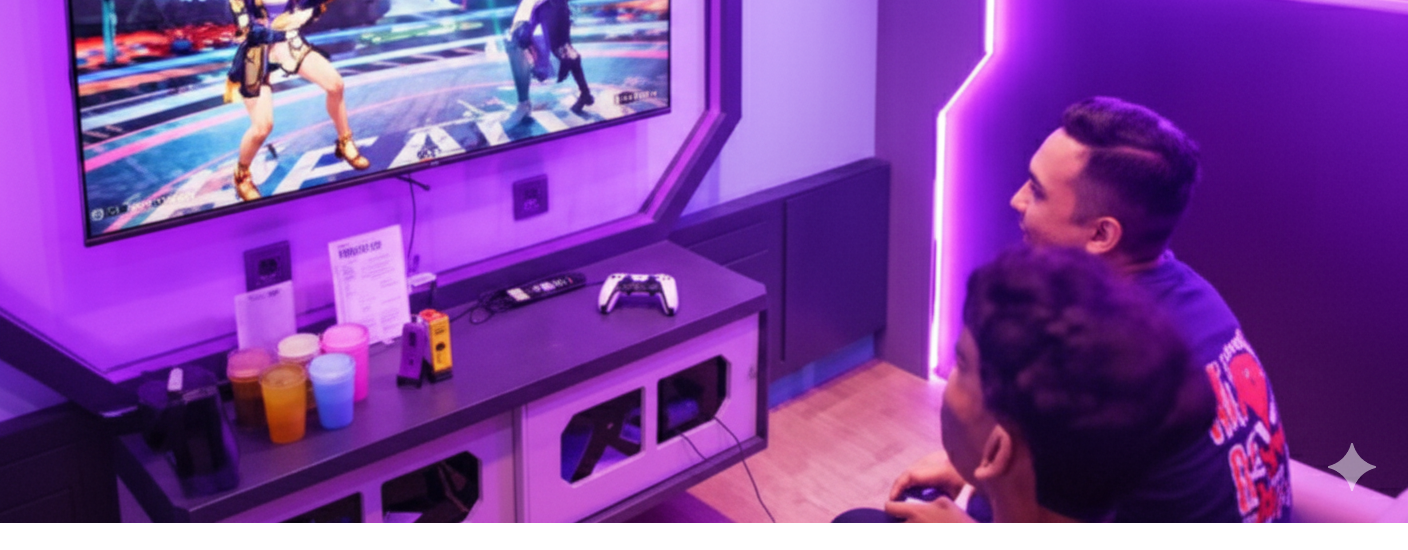
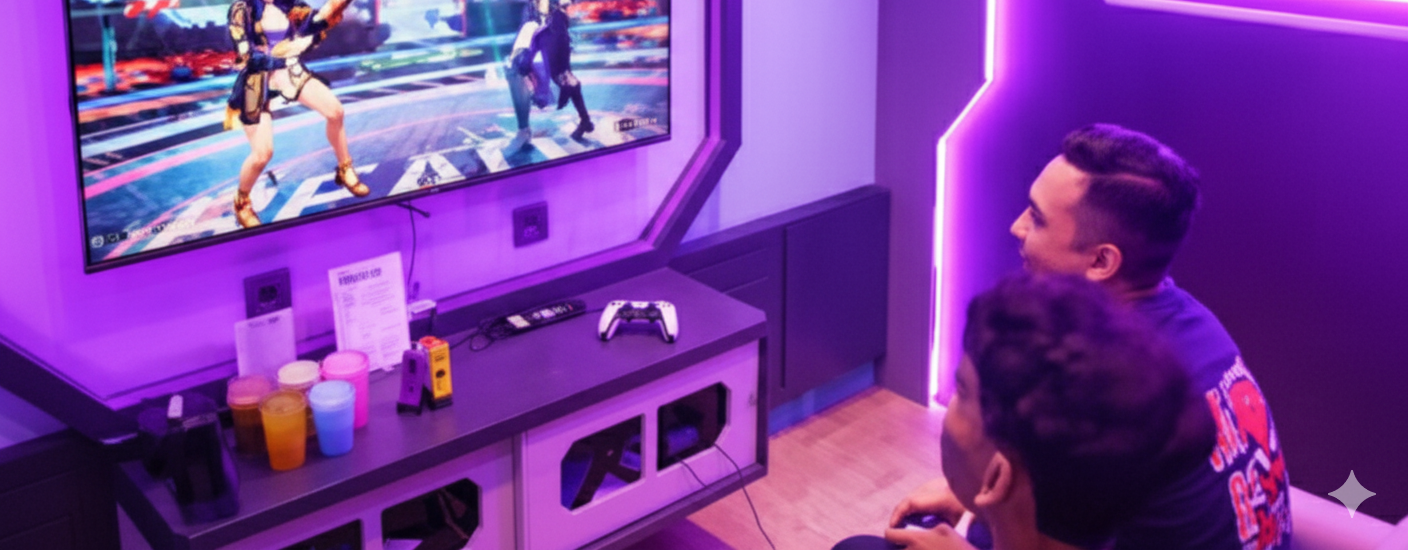
Melanjutkan ke spesial section

diff --git a/index.html b/index.html
@@ -202,12 +202,9 @@
     <section class="section-padding bg-porcelain">
       <div class="container">
         <div class="section-intro text-center pb-80px">
-          <div class="section-intro__style">
-            <img src="img/home/bed-icon.png" alt="">
-          </div>
           <h2>Special Facilities</h2>
         </div>
-        <div class="special-img mb-30px">
+        <div class="special-img">
           <img class="img-fluid" src="img/home/special.png" alt="">
         </div>
 
@@ -263,8 +260,13 @@
 
     <script src="vendors/jquery/jquery-3.2.1.min.js"></script>
     <script src="vendors/bootstrap/bootstrap.bundle.min.js"></script>
+    <script src="vendors/magnefic-popup/jquery.magnific-popup.min.js"></script>
+    <script src="vendors/owl-carousel/owl.carousel.min.js"></script>
+    <script src="vendors/easing.min.js"></script>
     <script src="vendors/superfish.min.js"></script>
-
+    <script src="vendors/nice-select/jquery.nice-select.min.js"></script>
+    <script src="vendors/jquery.ajaxchimp.min.js"></script>
+    <script src="vendors/mail-script.js"></script>
     <script src="js/main.js"></script>
 </body>
 </html>

diff --git a/css/style.css b/css/style.css
@@ -568,8 +568,10 @@ button {
   border-radius: 0;
   transition: all .4s ease;
   background-color: #1C1C1C; 
-
 }
+  .special-img {
+    margin-bottom: 25px;
+  }
   .card-special__icon {
     font-size: 24px;
     color: #cca772;
